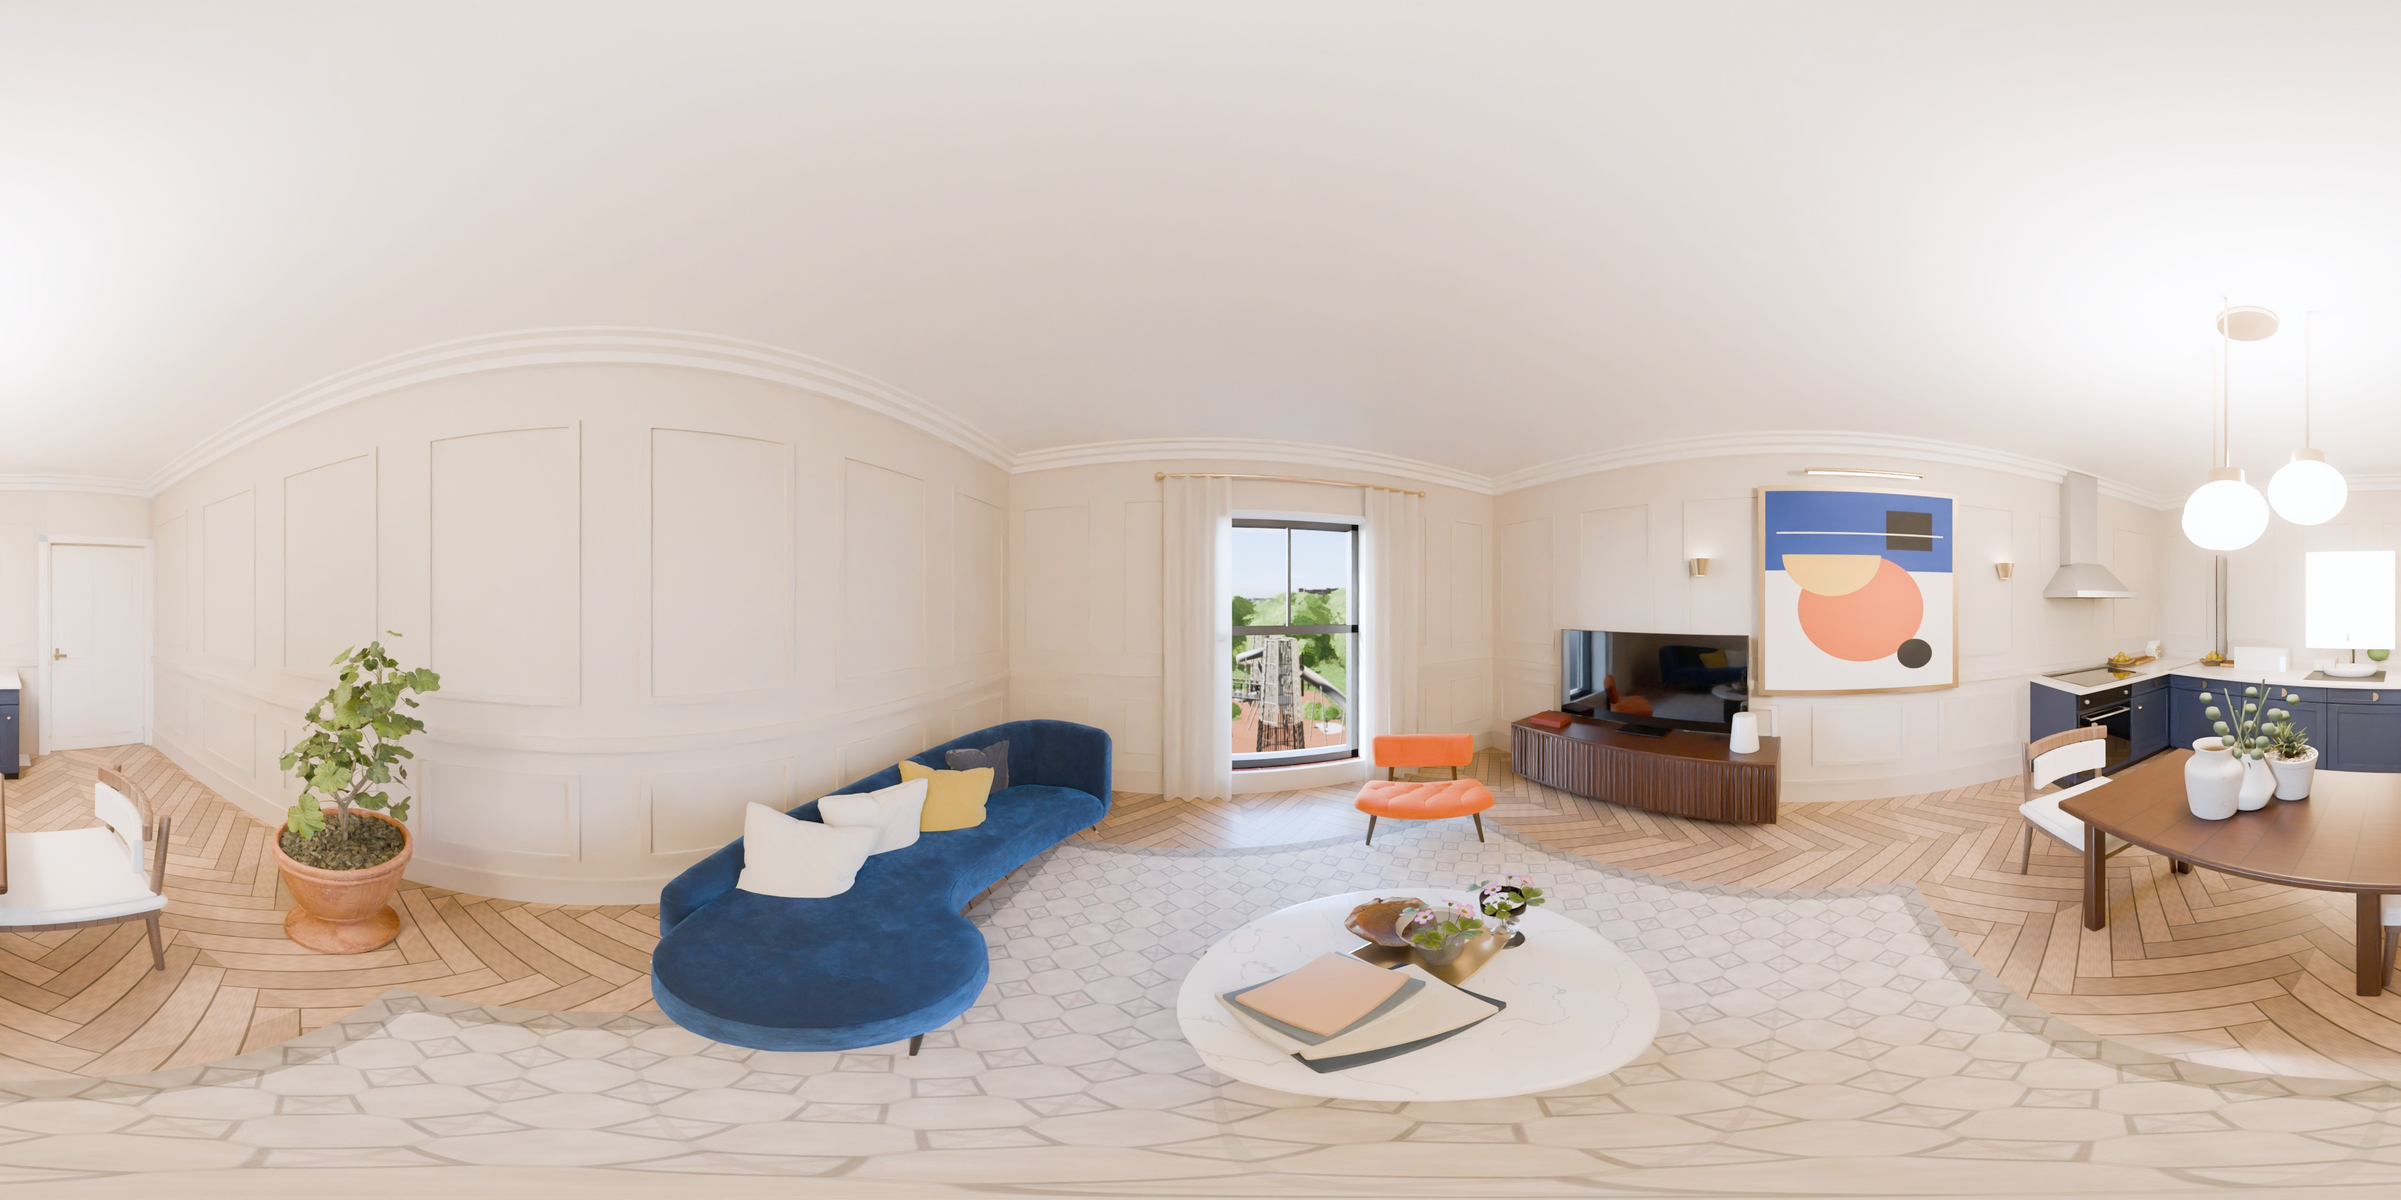
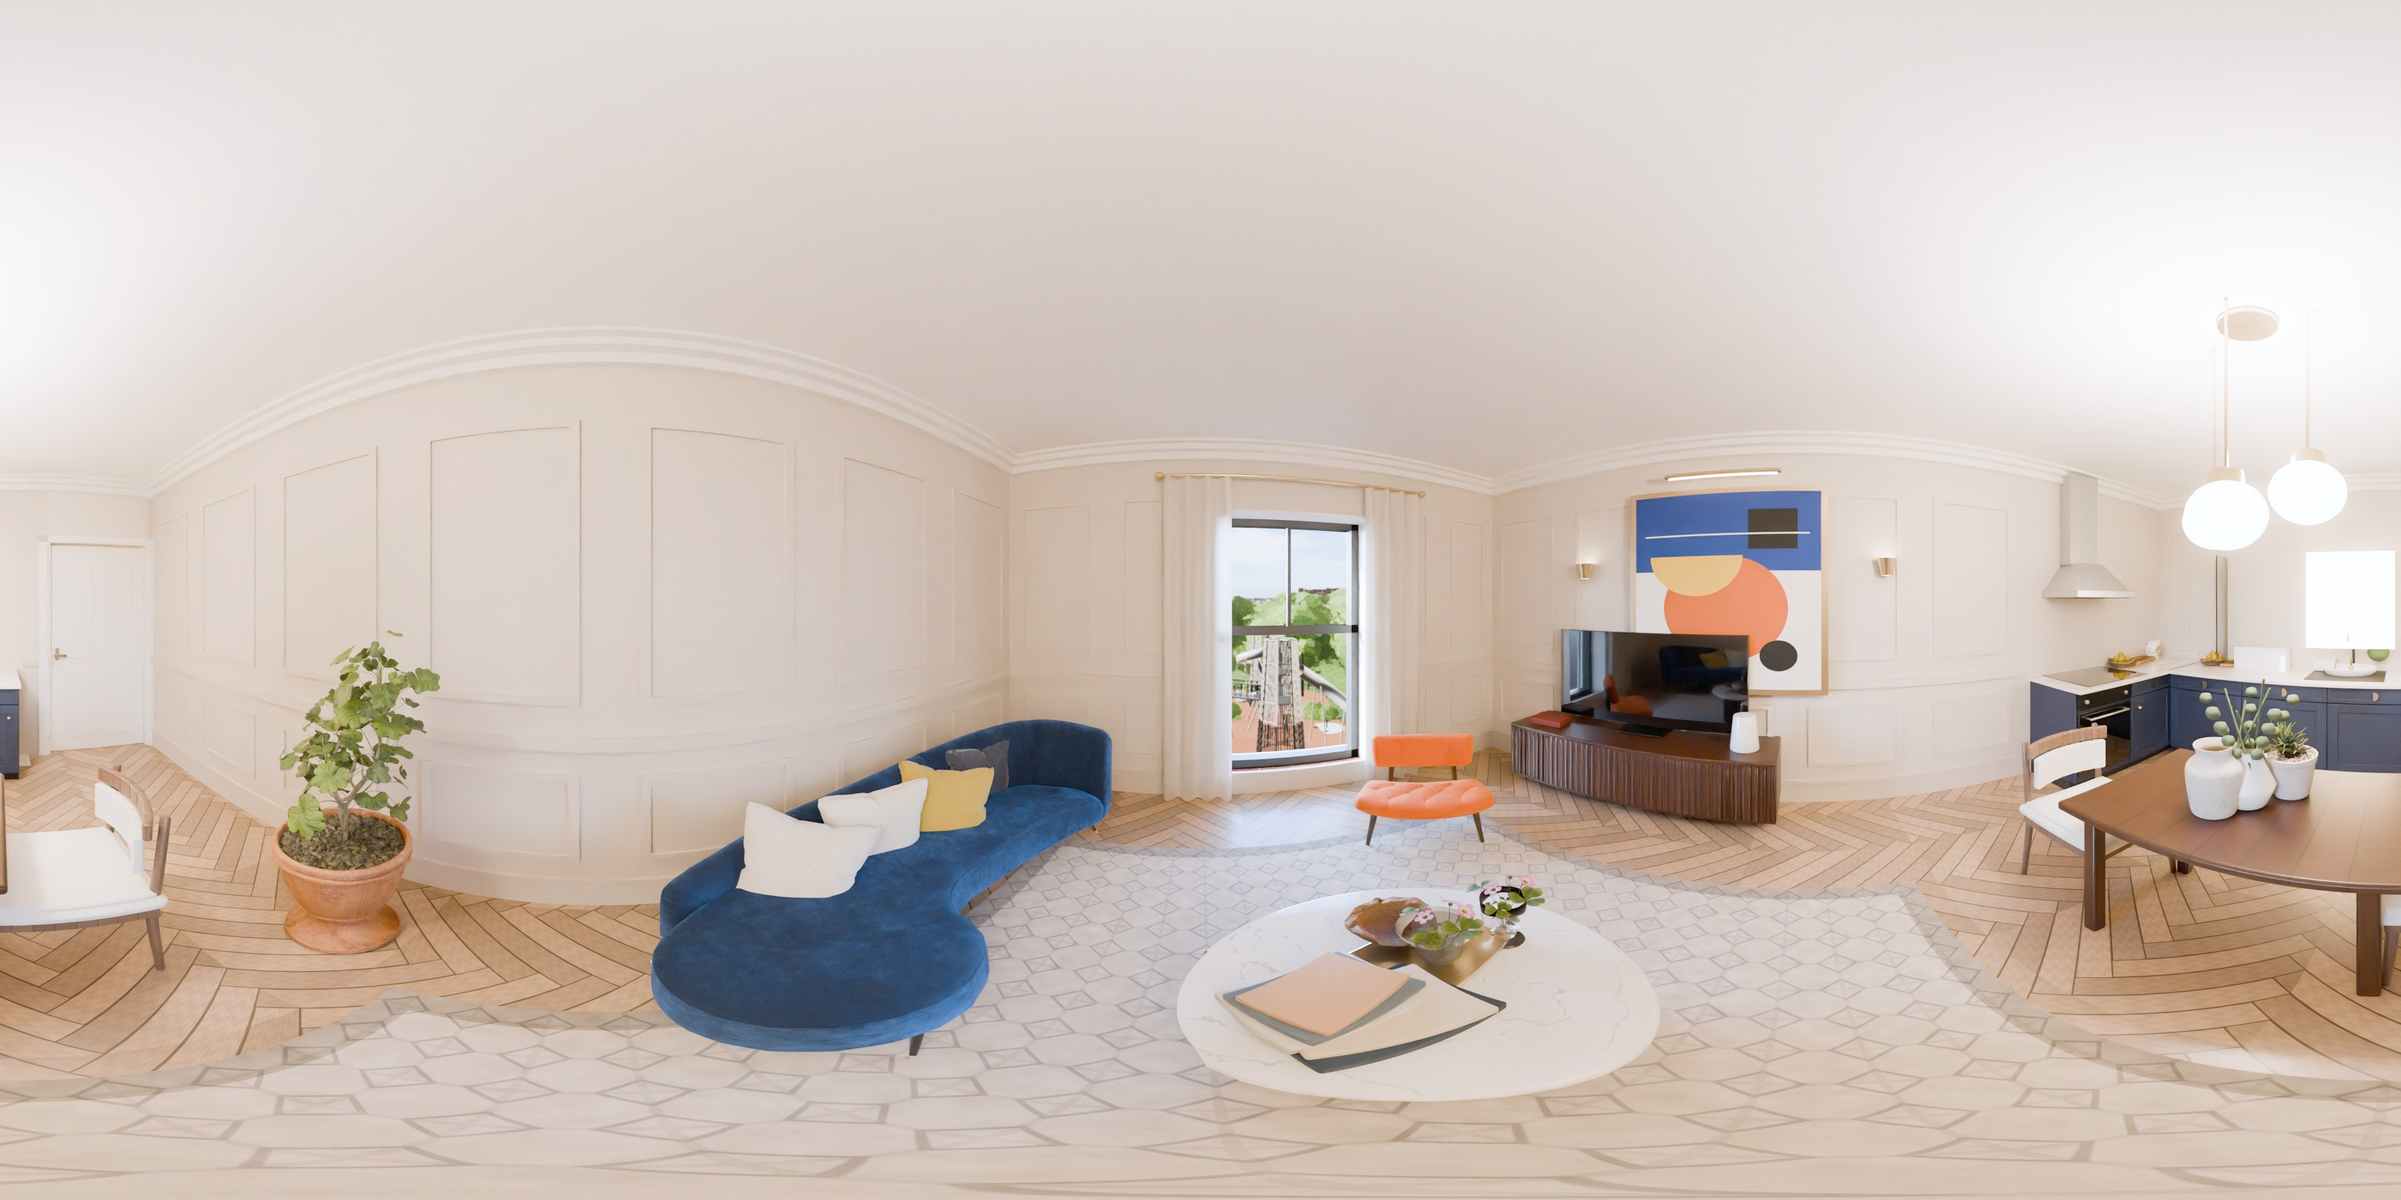
Photoreal 360 21_0: doors, extractor, no LED strip or blinds, brighter
Claude-Session: https://claude.ai/code/session_01Sctq4w295HK7FSoKn8ZRoL

Changed region(s): [[0.6562, 0.375, 0.8438, 0.5938]]

diff --git a/3d/js/main.js b/3d/js/main.js
@@ -9,30 +9,30 @@ import { ShaderPass } from 'three/addons/postprocessing/ShaderPass.js';
 import { GTAOPass } from 'three/addons/postprocessing/GTAOPass.js';
 import { Sky } from 'three/addons/objects/Sky.js';
 import { mergeGeometries } from 'three/addons/utils/BufferGeometryUtils.js';
-import { UNITS, FLOORS, STATUS, SITE, INTERIORS, SUN, fmtGBP, sqm, FLOOR_H, IS_PH, START_AREA, IS_OSL, IS_UBL, PLANF } from './site.js?v=1794207217';
-import { buildUBL } from './ublbuild.js?v=1794207217';
-import { buildUBLFitout } from './ublfit.js?v=1794207217';
-import { UBL_LEVELS } from './ubl_data.js?v=1794207217';
-import { buildPrintHouse, buildSeatonSign, buildSeatonHouse } from './printhouse.js?v=1794207217';
-import { buildOSL } from './oslbuild.js?v=1794207217';
-import { buildOSLFitout } from './oslfit.js?v=1794207217';
-import { makeMaterials, CUT, setAniso, tex } from './materials.js?v=1794207217';
-import { buildCharterHouse, buildFloorPlates } from './building.js?v=1794207217';
-import { buildContext, buildCourtyard, groundY, buildBreweryFront, buildCars, buildBrickWalls, buildParkingLots } from './context.js?v=1794207217';
-import { setTerrain, setMid, buildWorld, obb, groundAt, townUniforms, setGroundHole, insetPoly } from './world.js?v=1794207217';
-import { buildFar, hazeUniforms } from './far.js?v=1794207217';
-import { buildRailway } from './railway.js?v=1794207217';
-import { buildExchange, EXCHANGE_IDS } from './exchange.js?v=1794207217';
+import { UNITS, FLOORS, STATUS, SITE, INTERIORS, SUN, fmtGBP, sqm, FLOOR_H, IS_PH, START_AREA, IS_OSL, IS_UBL, PLANF } from './site.js?v=1794209740';
+import { buildUBL } from './ublbuild.js?v=1794209740';
+import { buildUBLFitout } from './ublfit.js?v=1794209740';
+import { UBL_LEVELS } from './ubl_data.js?v=1794209740';
+import { buildPrintHouse, buildSeatonSign, buildSeatonHouse } from './printhouse.js?v=1794209740';
+import { buildOSL } from './oslbuild.js?v=1794209740';
+import { buildOSLFitout } from './oslfit.js?v=1794209740';
+import { makeMaterials, CUT, setAniso, tex } from './materials.js?v=1794209740';
+import { buildCharterHouse, buildFloorPlates } from './building.js?v=1794209740';
+import { buildContext, buildCourtyard, groundY, buildBreweryFront, buildCars, buildBrickWalls, buildParkingLots } from './context.js?v=1794209740';
+import { setTerrain, setMid, buildWorld, obb, groundAt, townUniforms, setGroundHole, insetPoly } from './world.js?v=1794209740';
+import { buildFar, hazeUniforms } from './far.js?v=1794209740';
+import { buildRailway } from './railway.js?v=1794209740';
+import { buildExchange, EXCHANGE_IDS } from './exchange.js?v=1794209740';
 const TOUR_WORLD = new URLSearchParams(location.search).get('world') === 'tour';   // the wide world for the Stockport tour renders
-import { Forest, windUniforms } from './trees.js?v=1794207217';
-import { Interior } from './interior.js?v=1794207217';
-import { buildFurniture, LAYOUTS, furnitureMaterials } from './furniture.js?v=1794207217';
-import { buildPHFitout } from './phfit.js?v=1794207217';
-import { walkMaterials, buildApartment, Walker } from './walk.js?v=1794207217';
-import { landmarkMaterials, buildStMarys, buildMarketHallOSM, buildStJoseph } from './landmarks.js?v=1794207217';
-import { createTour } from './tour.js?v=1794207217';
-import { buildCrowd } from './crowd.js?v=1794207217';
-import { pitch as chPitch, phPitch, PICKS as CH_PICKS, PH_PICKS, PROOF, RESERVE, CHARLIE, AREA_CARDS as ALL_CARDS, REGEN, AREA_HEADLINE, rentFor, oslPitch, OSL_PICKS, OSL_PROOF, ublPitch, UBL_PICKS, UBL_PROOF } from './sales.js?v=1794207217';
+import { Forest, windUniforms } from './trees.js?v=1794209740';
+import { Interior } from './interior.js?v=1794209740';
+import { buildFurniture, LAYOUTS, furnitureMaterials } from './furniture.js?v=1794209740';
+import { buildPHFitout } from './phfit.js?v=1794209740';
+import { walkMaterials, buildApartment, Walker } from './walk.js?v=1794209740';
+import { landmarkMaterials, buildStMarys, buildMarketHallOSM, buildStJoseph } from './landmarks.js?v=1794209740';
+import { createTour } from './tour.js?v=1794209740';
+import { buildCrowd } from './crowd.js?v=1794209740';
+import { pitch as chPitch, phPitch, PICKS as CH_PICKS, PH_PICKS, PROOF, RESERVE, CHARLIE, AREA_CARDS as ALL_CARDS, REGEN, AREA_HEADLINE, rentFor, oslPitch, OSL_PICKS, OSL_PROOF, ublPitch, UBL_PICKS, UBL_PROOF } from './sales.js?v=1794209740';
 const pitch = IS_UBL ? ublPitch : IS_OSL ? oslPitch : IS_PH ? phPitch : chPitch, PICKS = IS_UBL ? UBL_PICKS : IS_OSL ? OSL_PICKS : IS_PH ? PH_PICKS : CH_PICKS;
 const RK = IS_UBL ? 'ubl' : IS_OSL ? 'osl' : IS_PH;   // which site's rents
 const PROOFS = IS_UBL ? UBL_PROOF : IS_OSL ? OSL_PROOF : PROOF;
@@ -2058,8 +2058,8 @@ function buildSpots() {
   }
   // photoreal path-traced 360s of the rooms (rendered offline from this model; listed in assets/pano/index.json)
   for (const p of PANO_INDEX) {
-    if (p.spot) { const sp = SPOTS.find((q) => q.id === p.spot); if (sp) { sp.pano = `pano/${p.file}.jpg?v=1794207217`; sp.hd = !!p.hd; sp.glide = false; sp.note = sp.note + ' Photoreal 360°: drag to look round.'; } continue; }   // a street spot with its own photoreal 360
-    SPOTS.push({ id: 'pano-' + p.file, name: p.name, at: V3(...p.pos), look: V3(...p.look), pano: `pano/${p.file}.jpg?v=1794207217`, hd: !!p.hd, glide: false, type: p.type, plot: p.plot, room: p.room || p.name, note: p.note || 'Photoreal 360°. Drag to look round.' });
+    if (p.spot) { const sp = SPOTS.find((q) => q.id === p.spot); if (sp) { sp.pano = `pano/${p.file}.jpg?v=1794209740`; sp.hd = !!p.hd; sp.glide = false; sp.note = sp.note + ' Photoreal 360°: drag to look round.'; } continue; }   // a street spot with its own photoreal 360
+    SPOTS.push({ id: 'pano-' + p.file, name: p.name, at: V3(...p.pos), look: V3(...p.look), pano: `pano/${p.file}.jpg?v=1794209740`, hd: !!p.hd, glide: false, type: p.type, plot: p.plot, room: p.room || p.name, note: p.note || 'Photoreal 360°. Drag to look round.' });
   }
   const LINKS = {"wellington": [], "garden": ["garden2", "walk1", "walktop"], "garden2": ["garden", "walk1"], "walk1": ["garden", "walktop"], "walktop": ["garden", "walk1"], "stjoseph": ["fletcher"], "fletcher": ["stjoseph"], "roof": [], "corner": ["park", "arch", "harvey", "smg"], "park": ["corner", "arch"], "arch": ["corner", "park"], "harvey": ["smg", "corner", "brewery"], "brewery": ["harvey"], "smg": ["harvey", "corner"], "courtyard": ["walkway"], "walkway": ["courtyard"], "church": [], "market": []};   // the spots you can actually see from each spot (pins never show through walls)
   for (const sp of SPOTS) sp.links = LINKS[sp.id] || [];
@@ -2433,7 +2433,7 @@ function loop() {
   try {
     await build();
     placeLandmarks();
-    try { const j = await fetch(BASE + 'pano/index.json?v=1794207217').then(r => r.ok ? r.json() : []); PANO_INDEX = (j || []).filter(p => !!p.type === true && (IS_UBL ? p.site === 'ubl' : IS_OSL ? p.site === 'osl' : IS_PH ? p.site === 'ph' : p.site !== 'ph' && p.site !== 'osl' && p.site !== 'ubl')); } catch (e) { PANO_INDEX = []; }
+    try { const j = await fetch(BASE + 'pano/index.json?v=1794209740').then(r => r.ok ? r.json() : []); PANO_INDEX = (j || []).filter(p => !!p.type === true && (IS_UBL ? p.site === 'ubl' : IS_OSL ? p.site === 'osl' : IS_PH ? p.site === 'ph' : p.site !== 'ph' && p.site !== 'osl' && p.site !== 'ubl')); } catch (e) { PANO_INDEX = []; }
     buildSpots();
   } catch (e) { console.error(e); lmsg.textContent = 'Something went wrong loading the model. Please refresh.'; return; }
   applyTOD('day');

diff --git a/3d/js/site.js b/3d/js/site.js
@@ -1,9 +1,9 @@
 // Which development this page sells: Charter House (default) or The Print House (window.__SITE = 'ph' or ?site=ph).
 // Everything the selector shows (units, floors, prices, copy) comes through here, so one engine serves both.
-import * as CHD from './data.js?v=1794207217';
-import { PH_SITE, PH_FLOORS, PH_UNITS, PH_FH } from './ph_data.js?v=1794207217';
-import { OSL_SITE, OSL_FLOORS, OSL_UNITS, OSL_FH } from './osl_data.js?v=1794207217';
-import { UBL_SITE, UBL_FLOORS, UBL_UNITS, UBL_FH } from './ubl_data.js?v=1794207217';
+import * as CHD from './data.js?v=1794209740';
+import { PH_SITE, PH_FLOORS, PH_UNITS, PH_FH } from './ph_data.js?v=1794209740';
+import { OSL_SITE, OSL_FLOORS, OSL_UNITS, OSL_FH } from './osl_data.js?v=1794209740';
+import { UBL_SITE, UBL_FLOORS, UBL_UNITS, UBL_FH } from './ubl_data.js?v=1794209740';
 
 export const IS_PH = typeof window !== 'undefined' && (window.__SITE === 'ph' || /[?&]site=ph\b/.test(location.search));
 // Oldham Street Lofts, Hyde (window.__SITE = 'osl' or ?site=osl): a different town, built in the same plan-frame way as The Print House

diff --git a/3d/js/phfit.js b/3d/js/phfit.js
@@ -4,10 +4,10 @@
 // Built in the Print House model's plan frame (x = u, z = -v), so the group sits inside the model's transform.
 import * as THREE from 'three';
 import { mergeGeometries } from 'three/addons/utils/BufferGeometryUtils.js';
-import { CUT } from './materials.js?v=1794207217';
-import { plankTexture, weaveTexture, tileTexture, finishUV } from './finishes.js?v=1794207217';
-import { Kit, sofa, armchair, bed, bedside, wardrobe, kitchen, chair, diningTable, coffeeTable, rug, pot } from './furniture.js?v=1794207217';
-import { phTopY } from './ph_data.js?v=1794207217';
+import { CUT } from './materials.js?v=1794209740';
+import { plankTexture, weaveTexture, tileTexture, finishUV } from './finishes.js?v=1794209740';
+import { Kit, sofa, armchair, bed, bedside, wardrobe, kitchen, chair, diningTable, coffeeTable, rug, pot } from './furniture.js?v=1794209740';
+import { phTopY } from './ph_data.js?v=1794209740';
 
 // which side of each main-block slot its kitchen runs along (kitchens pair back to back across the party walls)
 const KSIDE = { 2: 0, 3: 1, 4: 0, 5: 1, 6: 0, 7: 1 };

diff --git a/3d/js/oslfit.js b/3d/js/oslfit.js
@@ -3,10 +3,10 @@
 // Built in the sheet frame (local x = s along Syddall Street, z = t back from the frontage), inside the model's transform.
 import * as THREE from 'three';
 import { mergeGeometries } from 'three/addons/utils/BufferGeometryUtils.js';
-import { CUT } from './materials.js?v=1794207217';
-import { plankTexture, weaveTexture, tileTexture, finishUV } from './finishes.js?v=1794207217';
-import { Kit, sofa, armchair, bed, bedside, kitchen, chair, diningTable, coffeeTable, rug } from './furniture.js?v=1794207217';
-import { OSL_KEAST } from './osl_data.js?v=1794207217';
+import { CUT } from './materials.js?v=1794209740';
+import { plankTexture, weaveTexture, tileTexture, finishUV } from './finishes.js?v=1794209740';
+import { Kit, sofa, armchair, bed, bedside, kitchen, chair, diningTable, coffeeTable, rug } from './furniture.js?v=1794209740';
+import { OSL_KEAST } from './osl_data.js?v=1794209740';
 
 let MATS = null;
 function mats() {

diff --git a/3d/js/ublfit.js b/3d/js/ublfit.js
@@ -7,10 +7,10 @@
 import * as THREE from 'three';
 import { mergeGeometries } from 'three/addons/utils/BufferGeometryUtils.js';
 import { RoundedBoxGeometry } from 'three/addons/geometries/RoundedBoxGeometry.js';
-import { CUT } from './materials.js?v=1794207217';
-import { Kit, bed, bedside, chair, rug, coffeeTable } from './furniture.js?v=1794207217';
-import { UBL_LEVELS } from './ubl_data.js?v=1794207217';
-import { plankTexture, weaveTexture, tileTexture, stoneTexture, rugTexture, finishUV } from './finishes.js?v=1794207217';
+import { CUT } from './materials.js?v=1794209740';
+import { Kit, bed, bedside, chair, rug, coffeeTable } from './furniture.js?v=1794209740';
+import { UBL_LEVELS } from './ubl_data.js?v=1794209740';
+import { plankTexture, weaveTexture, tileTexture, stoneTexture, rugTexture, finishUV } from './finishes.js?v=1794209740';
 
 let MATS = null;
 function mats() {

diff --git a/3d/js/ublbuild.js b/3d/js/ublbuild.js
@@ -9,10 +9,10 @@
 // Heights in metres above the converted building's lower ground floor (+52.00 m AOD).
 import * as THREE from 'three';
 import { mergeGeometries } from 'three/addons/utils/BufferGeometryUtils.js';
-import { UBL_SITE, UBL_UNITS, UBL_LEVELS, UBL_EXT_LEVELS } from './ubl_data.js?v=1794207217';
-import { roomBox } from './building.js?v=1794207217';
-import { roomMaterial } from './materials.js?v=1794207217';
-import { insetPoly } from './world.js?v=1794207217';
+import { UBL_SITE, UBL_UNITS, UBL_LEVELS, UBL_EXT_LEVELS } from './ubl_data.js?v=1794209740';
+import { roomBox } from './building.js?v=1794209740';
+import { roomMaterial } from './materials.js?v=1794209740';
+import { insetPoly } from './world.js?v=1794209740';
 
 const NF = 5;
 const EAVES = 15.4, RIDGE = 18.4;                     // +67.40 / +70.40

diff --git a/3d/js/oslbuild.js b/3d/js/oslbuild.js
@@ -7,10 +7,10 @@
 // which is the engine's plan frame with u = s, v = -t.
 import * as THREE from 'three';
 import { mergeGeometries } from 'three/addons/utils/BufferGeometryUtils.js';
-import { OSL_SITE, OSL_FH, OSL_UNITS, OSL_KEAST } from './osl_data.js?v=1794207217';
-import { roomBox } from './building.js?v=1794207217';
-import { roomMaterial } from './materials.js?v=1794207217';
-import { insetPoly, polyArea } from './world.js?v=1794207217';
+import { OSL_SITE, OSL_FH, OSL_UNITS, OSL_KEAST } from './osl_data.js?v=1794209740';
+import { roomBox } from './building.js?v=1794209740';
+import { roomMaterial } from './materials.js?v=1794209740';
+import { insetPoly, polyArea } from './world.js?v=1794209740';
 
 const FH = OSL_FH, NF = 3;
 const HW = 4.137, HD = 11.17;                   // house plot width and depth

diff --git a/3d/js/printhouse.js b/3d/js/printhouse.js
@@ -5,9 +5,9 @@
 // local z = -v (v runs east into the garden), so the plan coordinates read straight across.
 import * as THREE from 'three';
 import { mergeGeometries } from 'three/addons/utils/BufferGeometryUtils.js';
-import { PH_SITE, PH_FH, PH_UNITS, PH_ROOF, phTopY } from './ph_data.js?v=1794207217';
-import { roomBox } from './building.js?v=1794207217';
-import { roomMaterial } from './materials.js?v=1794207217';
+import { PH_SITE, PH_FH, PH_UNITS, PH_ROOF, phTopY } from './ph_data.js?v=1794209740';
+import { roomBox } from './building.js?v=1794209740';
+import { roomMaterial } from './materials.js?v=1794209740';
 
 const FH = PH_FH, NF = 5;
 const MAIN = [0, 0, 27.2, 10.2];      // u0 v0 u1 v1

diff --git a/3d/js/context.js b/3d/js/context.js
@@ -4,8 +4,8 @@
 import * as THREE from 'three';
 import { mergeGeometries, mergeVertices } from 'three/addons/utils/BufferGeometryUtils.js';
 import { RoundedBoxGeometry } from 'three/addons/geometries/RoundedBoxGeometry.js';
-import { boxGeom, boxUV } from './building.js?v=1794207217';
-import { groundAt, letteringTexture } from './world.js?v=1794207217';
+import { boxGeom, boxUV } from './building.js?v=1794209740';
+import { groundAt, letteringTexture } from './world.js?v=1794209740';
 
 // street level comes from the terrain model (world.js): estimated levels relative to Charter House's ground floor
 export function groundY(x, z) { return groundAt(x, z); }

diff --git a/3d/js/far.js b/3d/js/far.js
@@ -3,7 +3,7 @@
 // the Manchester skyline, St George's spire, the 1840 viaduct and the oval Interchange with its rooftop park.
 import * as THREE from 'three';
 import { mergeGeometries, mergeVertices } from 'three/addons/utils/BufferGeometryUtils.js';
-import { midH, groundAt } from './world.js?v=1794207217';
+import { midH, groundAt } from './world.js?v=1794209740';
 
 // aerial perspective shared by every far mesh (they skip the scene fog): haze rises with distance like real air
 export const hazeUniforms = { uHaze: { value: new THREE.Color('#b9c9dc') }, uHazeL: { value: 14000 }, uSunTint: { value: new THREE.Color('#ffffff') } };

diff --git a/3d/js/furniture.js b/3d/js/furniture.js
@@ -5,9 +5,9 @@
 import * as THREE from 'three';
 import { RoundedBoxGeometry } from 'three/addons/geometries/RoundedBoxGeometry.js';
 import { mergeGeometries } from 'three/addons/utils/BufferGeometryUtils.js';
-import { CUT, tex } from './materials.js?v=1794207217';
-import { FLOOR_H } from './data.js?v=1794207217';
-import { Forest } from './trees.js?v=1794207217';
+import { CUT, tex } from './materials.js?v=1794209740';
+import { FLOOR_H } from './data.js?v=1794209740';
+import { Forest } from './trees.js?v=1794209740';
 
 const FH = FLOOR_H;
 const DIR = { '+x': [1, 0], '-x': [-1, 0], '+z': [0, 1], '-z': [0, -1] };

diff --git a/3d/js/building.js b/3d/js/building.js
@@ -1,8 +1,8 @@
 // Charter House: procedural model built from the Ollier Smurthwaite plans and elevations.
 import * as THREE from 'three';
 import { mergeGeometries } from 'three/addons/utils/BufferGeometryUtils.js';
-import { UNITS, FLOOR_H } from './data.js?v=1794207217';
-import { roomMaterial, CUT_PLANES } from './materials.js?v=1794207217';
+import { UNITS, FLOOR_H } from './data.js?v=1794209740';
+import { roomMaterial, CUT_PLANES } from './materials.js?v=1794209740';
 
 const FH = FLOOR_H;
 const T = 0.4;              // external wall thickness
